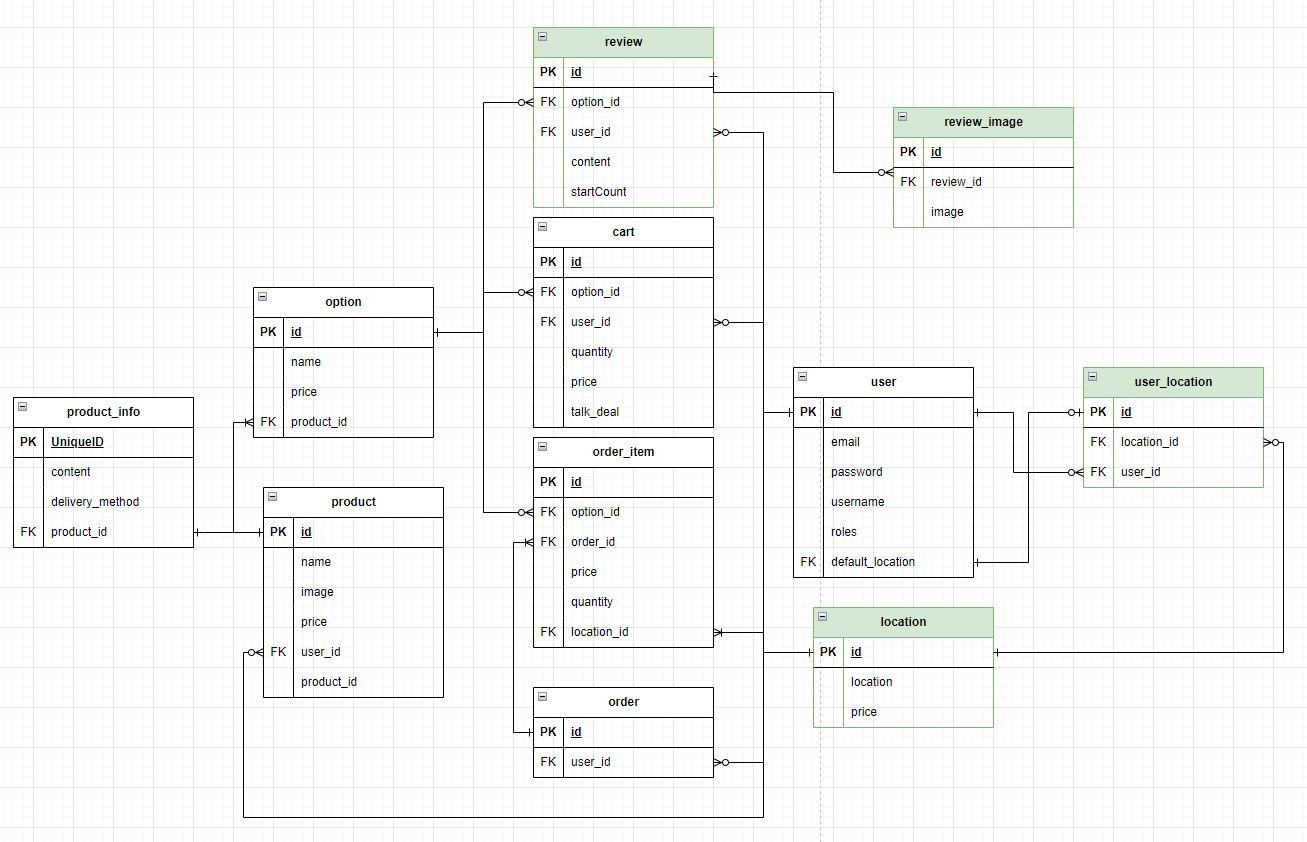
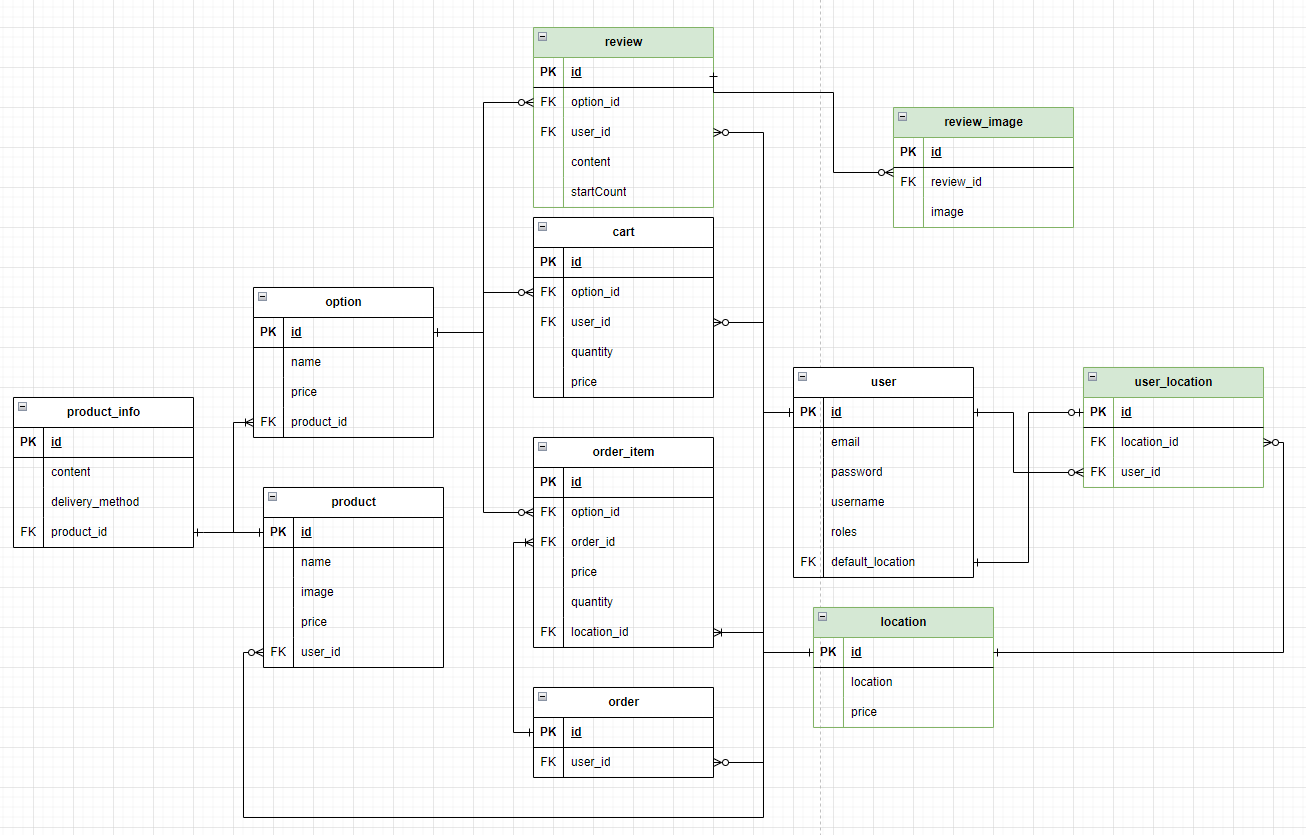
docs : update E-R diagram and add sql

diff --git a/README.md b/README.md
@@ -224,6 +224,84 @@
 - 5.10 주문 결과 확인 (/orders/1)
     - 미구현
 </details>
+<details>
+<summary>6. 테이블 설계</summary>
+
+# 화면 설계 상에서 요구되는 정보만을 다룰 수 있도록 반영
+User
+```
+CREATE TABLE `user_tb` (
+    `id` int(11) NOT NULL AUTO_INCREMENT,
+    `username` VARCHAR(30) NOT NULL UNIQUE,
+    `password` VARCHAR(256) NOT NULL,
+    `email` VARCHAR(256) NOT NULL UNIQUE,
+    `created_at` DATETIME NOT NULL,
+    `updated_at` DATETIME NOT NULL);
+```
+
+Product
+```
+CREATE TABLE `product_tb` (
+    `id` int(11) NOT NULL AUTO_INCREMENT,
+    `name` VARCHAR(100) NOT NULL,
+    `image` VARCHAR(1000) NOT NULL,
+    `price` int(11) NOT NULL,
+    `created_at` DATETIME NOT NULL,
+    `updated_at` DATETIME NOT NULL);
+```
+
+Option
+```
+CREATE TABLE `option_tb` (
+    `id` int(11) NOT NULL AUTO_INCREMENT,
+    `name` VARCHAR NOT NULL(100),
+    `price` int(11) NOT NULL,
+    `product_id`, NOT NULL,
+    `created_at` DATETIME NOT NULL,
+    `updated_at` DATETIME NOT NULL,
+    FOREIGN KEY (`product_id`) REFERENCE `product_tb`(`id`));
+```
+
+Cart
+```
+CREATE TABLE `cart_tb` (   
+    `id` int(11) NOT NULL AUTO_INCREMENT,
+    `user_id` int(11) NOT NULL,
+    `option_id` int(11) NOT NULL,
+    `quantity` int(11) NOT NULL,
+    `price` int(11) NOT NULL,
+    `created_at` DATETIME NOT NULL,
+    `updated_at` DATETIME NOT NULL,
+    UNIQUE KEY `cart_user_option` (`user_id`, `option_id`),
+    FOREIGN KEY (`user_id`) REFERENCE `user_tb`(`id`),
+    FOREIGN KEY (`option_id`) REFERENCE `option_tb`(`id`));
+```
+
+Order
+```
+CREATE TABLE `order_tb` (
+    `id` int(11) NOT NULL AUTO_INCREMENT,
+    `user_id` int(11) NOT NULL,
+    `created_at` DATETIME NOT NULL,
+    `updated_at` DATETIME NOT NULL,
+    FOREIGN KEY (`user_id`) REFERENCE `user_tb`(`id`));
+```
+
+Order_item
+```
+CREATE TABLE `order_item_tb` (
+    `id` int(11) NOT NULL AUTO_INCREMENT,
+    `order_id` int(11) NOT NULL,
+    `option_id` int(11) NOT NULL,
+    `price` int(11) NOT NULL,
+    `quantity` int(11) NOT NULL,
+    `created_at` DATETIME NOT NULL,
+    `updated_at` DATETIME NOT NULL,
+    UNIQUE KEY `order_item_order_option` (`order_id`, `option_id`),
+    FOREIGN KEY (`order_id`) REFERENCE `order_tb`(`id`),
+    FOREIGN KEY (`option_id`) REFERENCE `option_tb`(`id`));
+```
+</details>
 
 # 2주차
 
